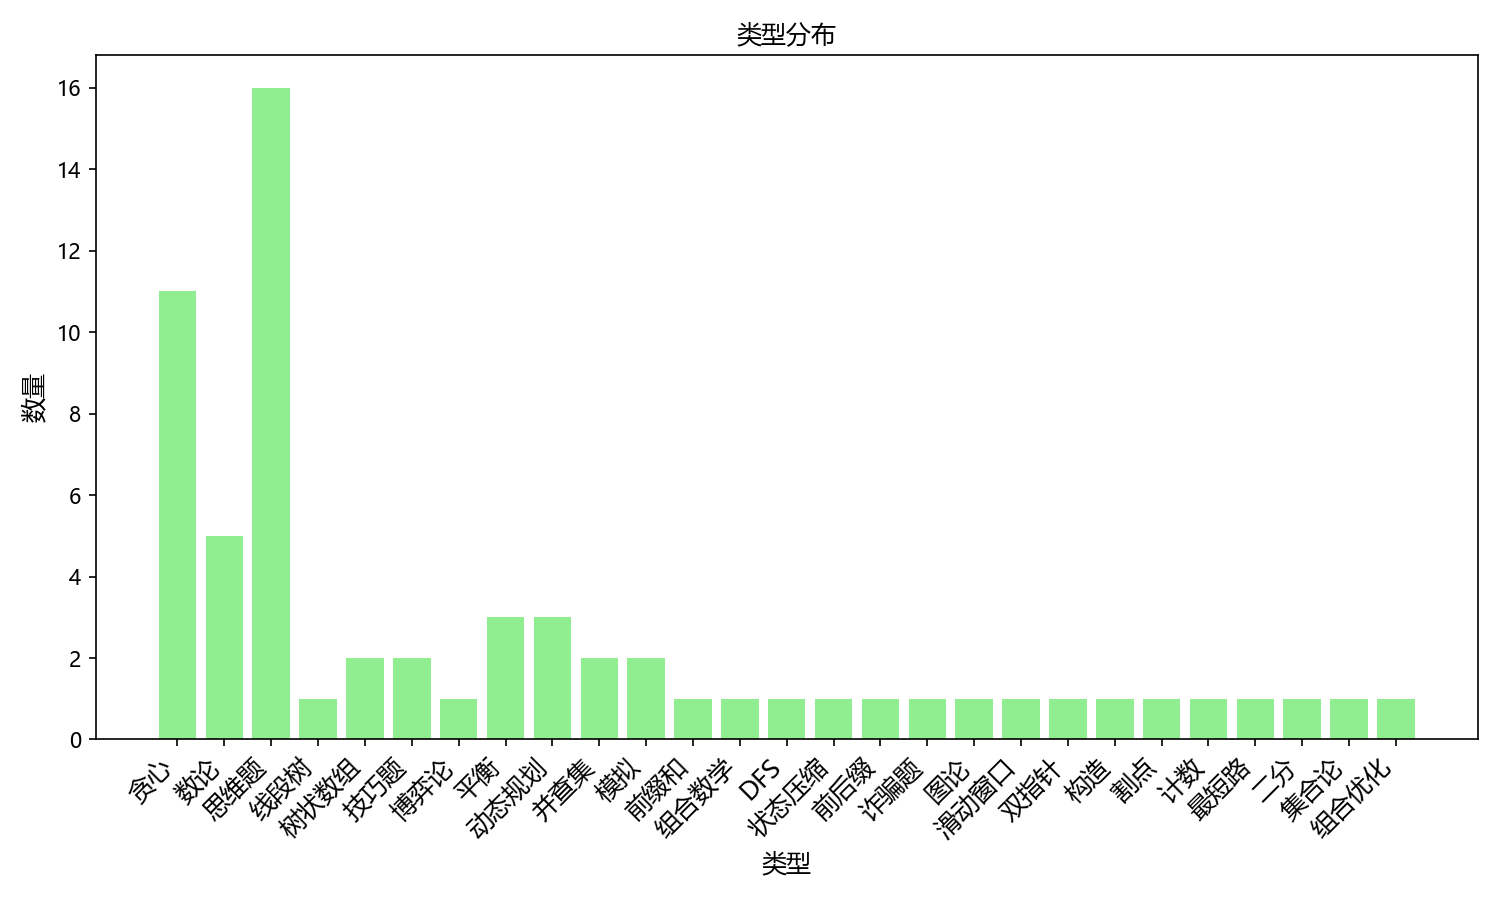
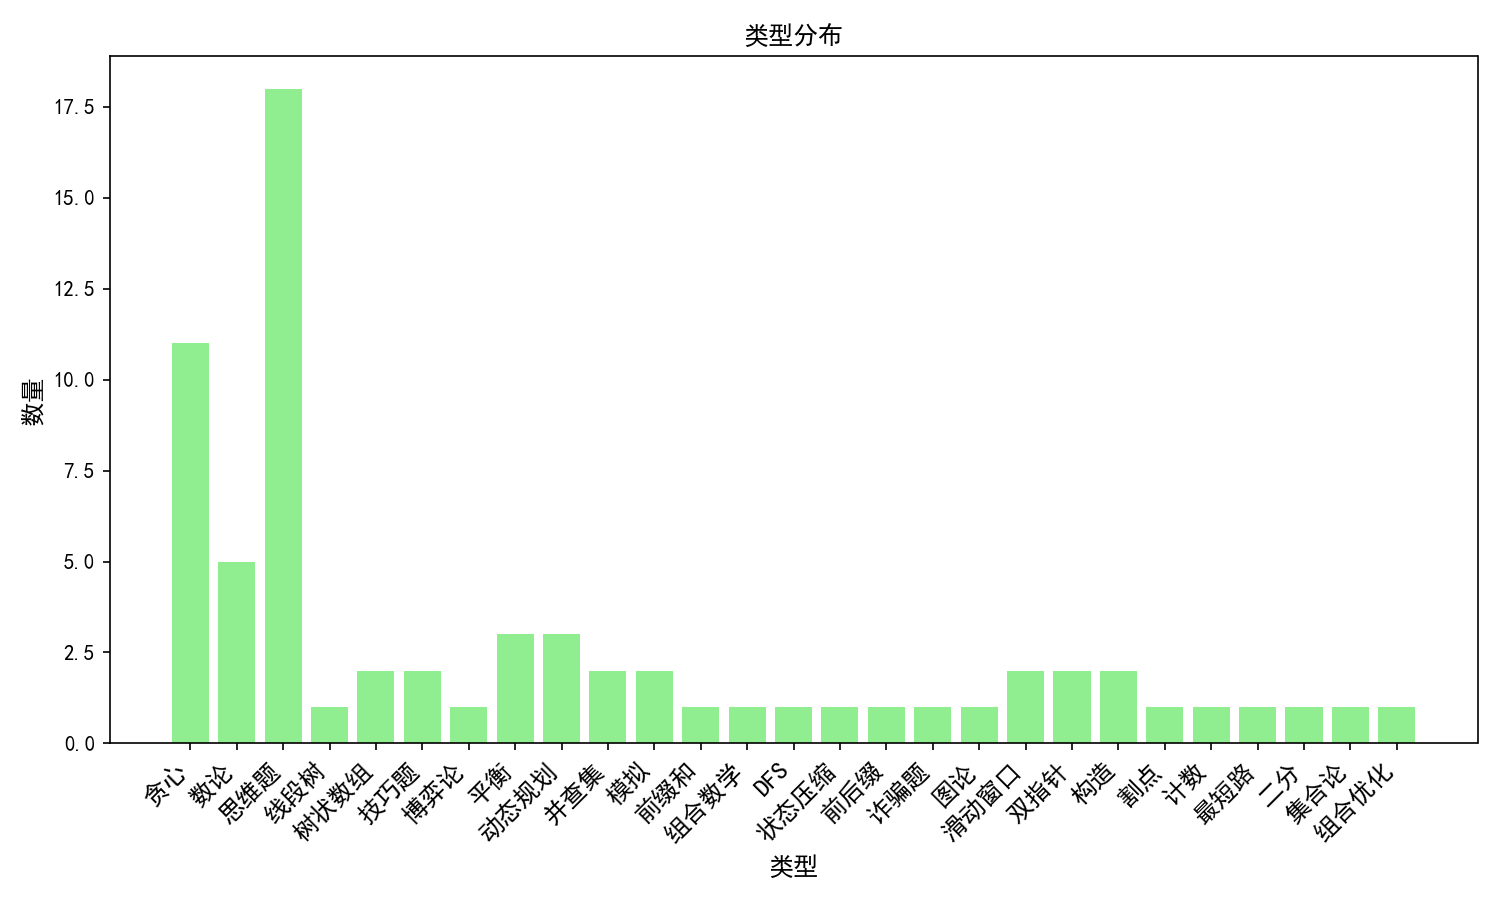
d

diff --git a/算法/周赛补题/周赛73/div3_{双指针;滑动窗口}_D.md b/算法/周赛补题/周赛73/div3_{双指针;滑动窗口}_D.md
@@ -1,0 +1,2 @@
+[JNMC孙国庆]
+# [转到题目](https://ac.nowcoder.com/acm/contest/99277/D)

diff --git a/算法/周赛补题/周赛73/div4_{构造;思维题}_C.md b/算法/周赛补题/周赛73/div4_{构造;思维题}_C.md
@@ -1,0 +1,2 @@
+[JNMC孙国庆]
+# [转到题目](https://ac.nowcoder.com/acm/contest/99277/C)

diff --git a/算法/周赛补题/周赛73/div5_{思维题}_B.md b/算法/周赛补题/周赛73/div5_{思维题}_B.md
@@ -1,0 +1,2 @@
+[JNMC孙国庆]
+# [转到题目](https://ac.nowcoder.com/acm/contest/99277/B)
